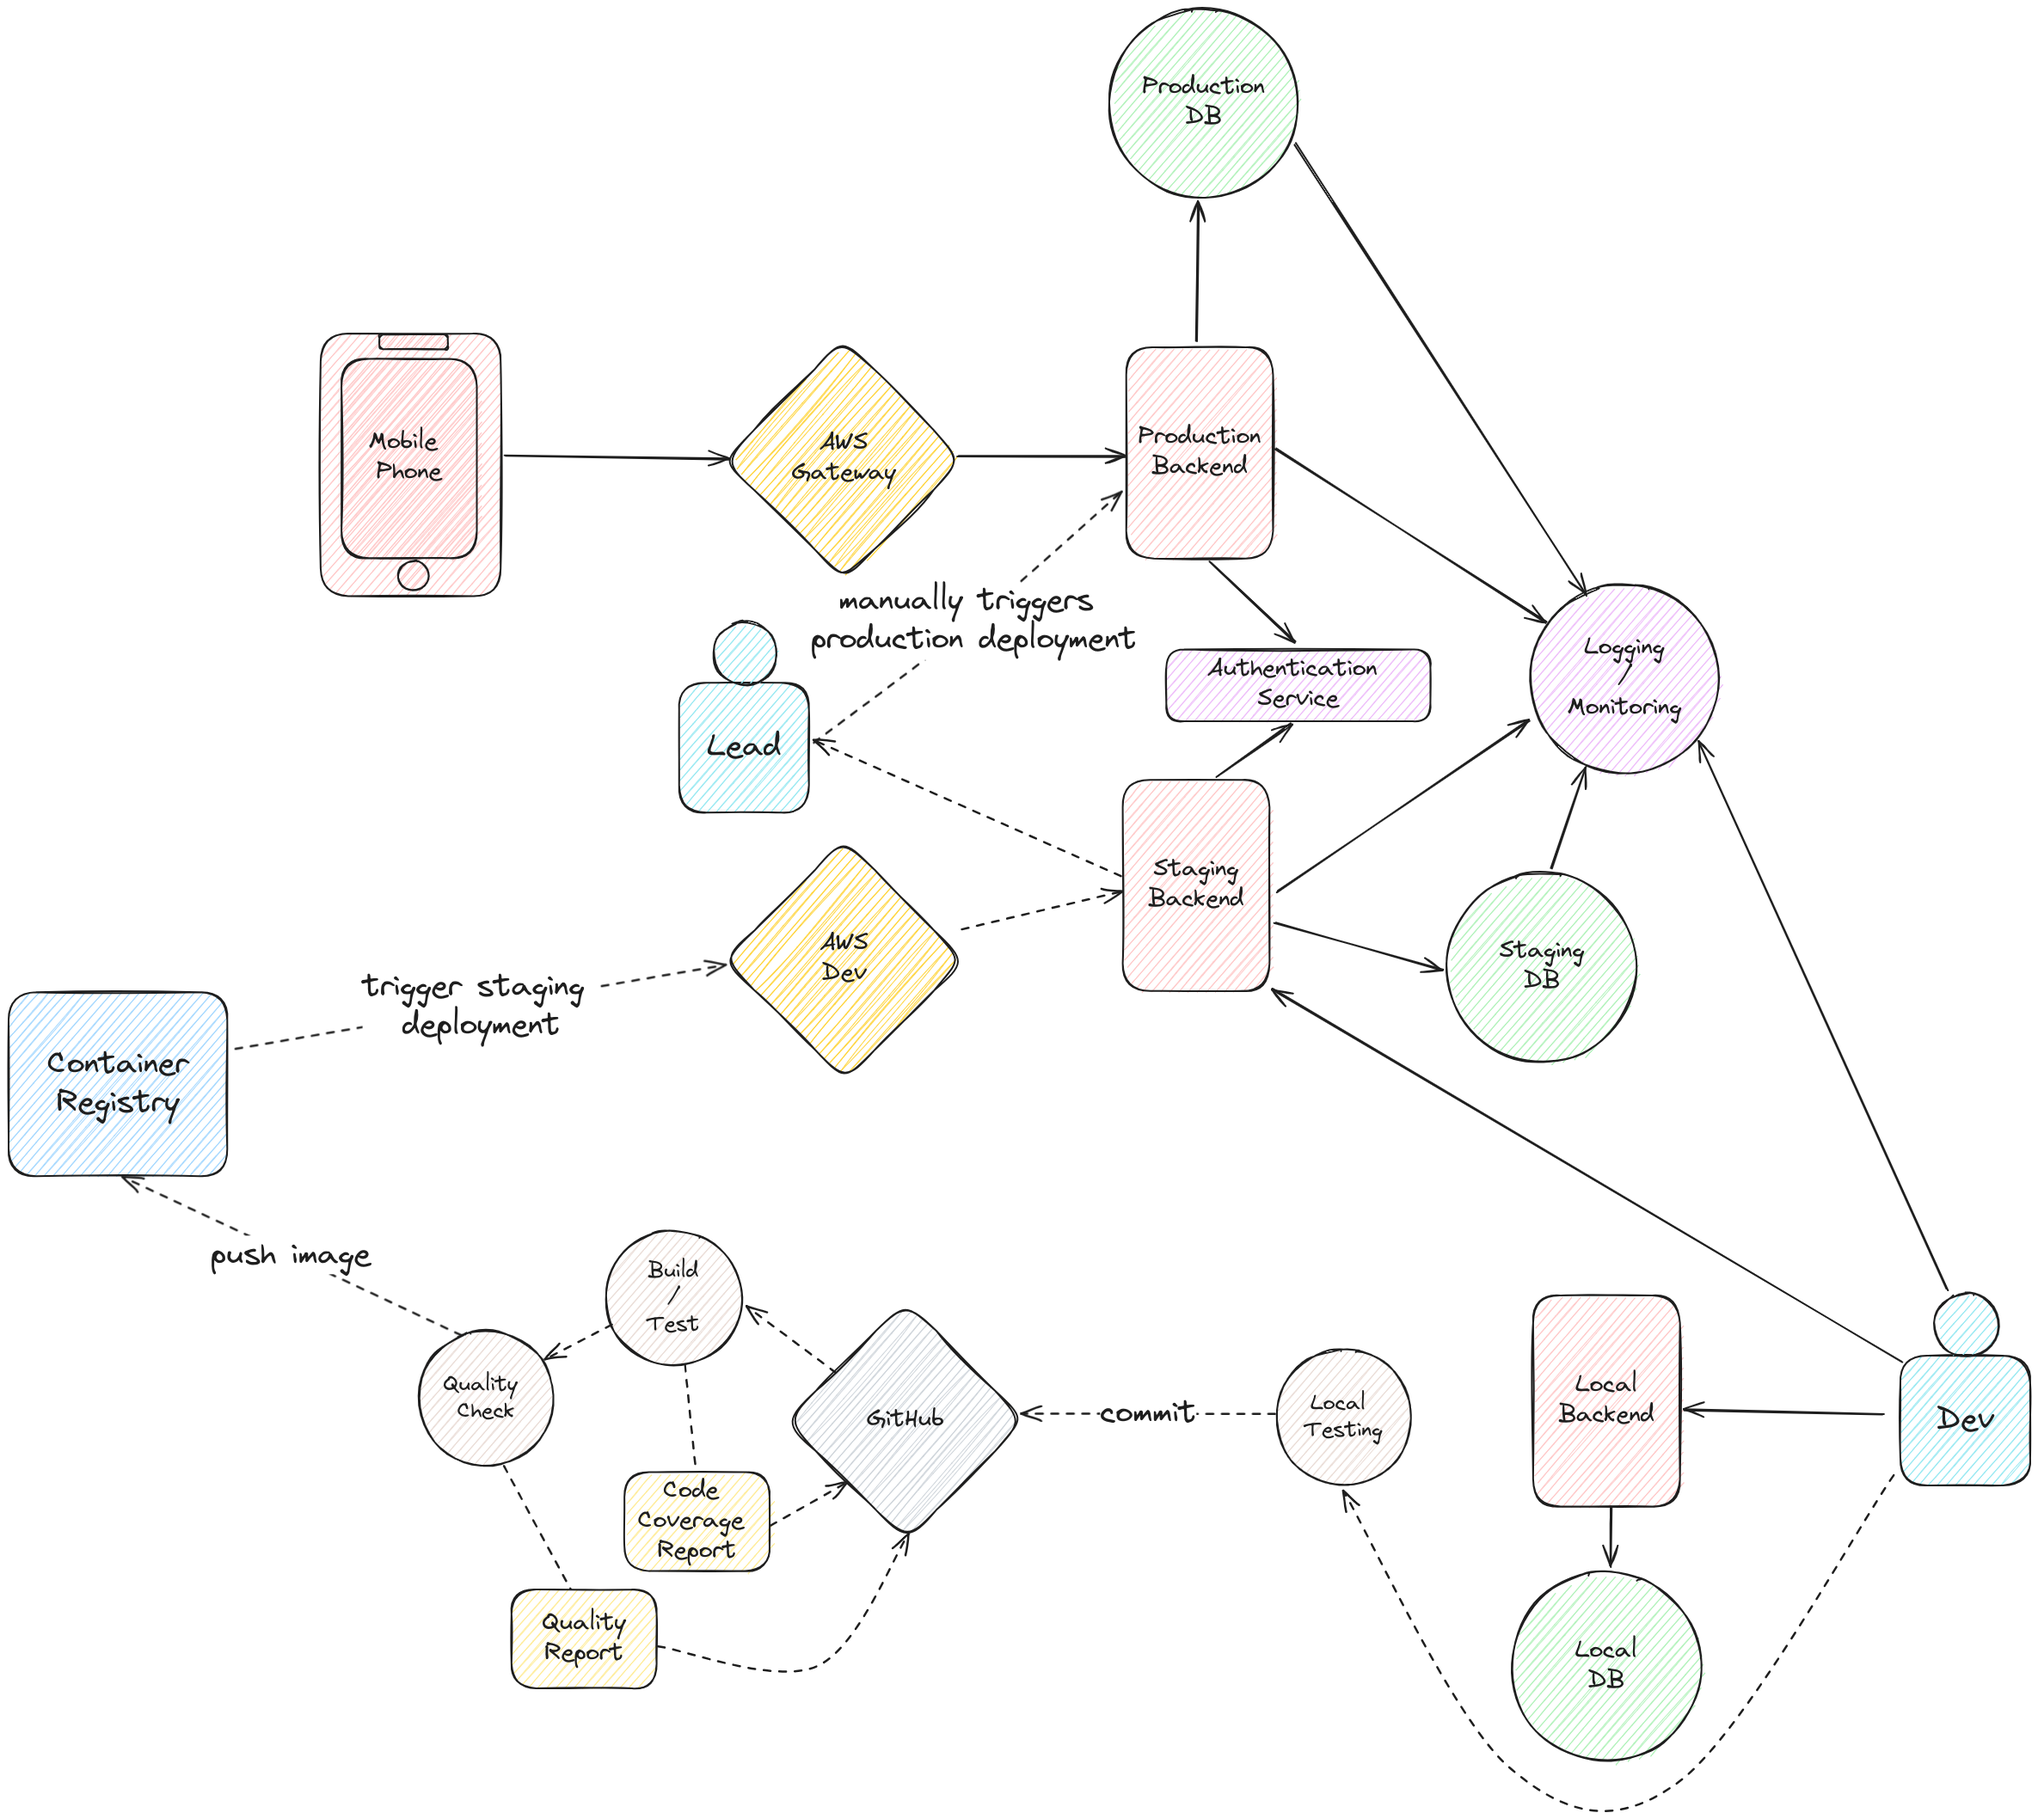
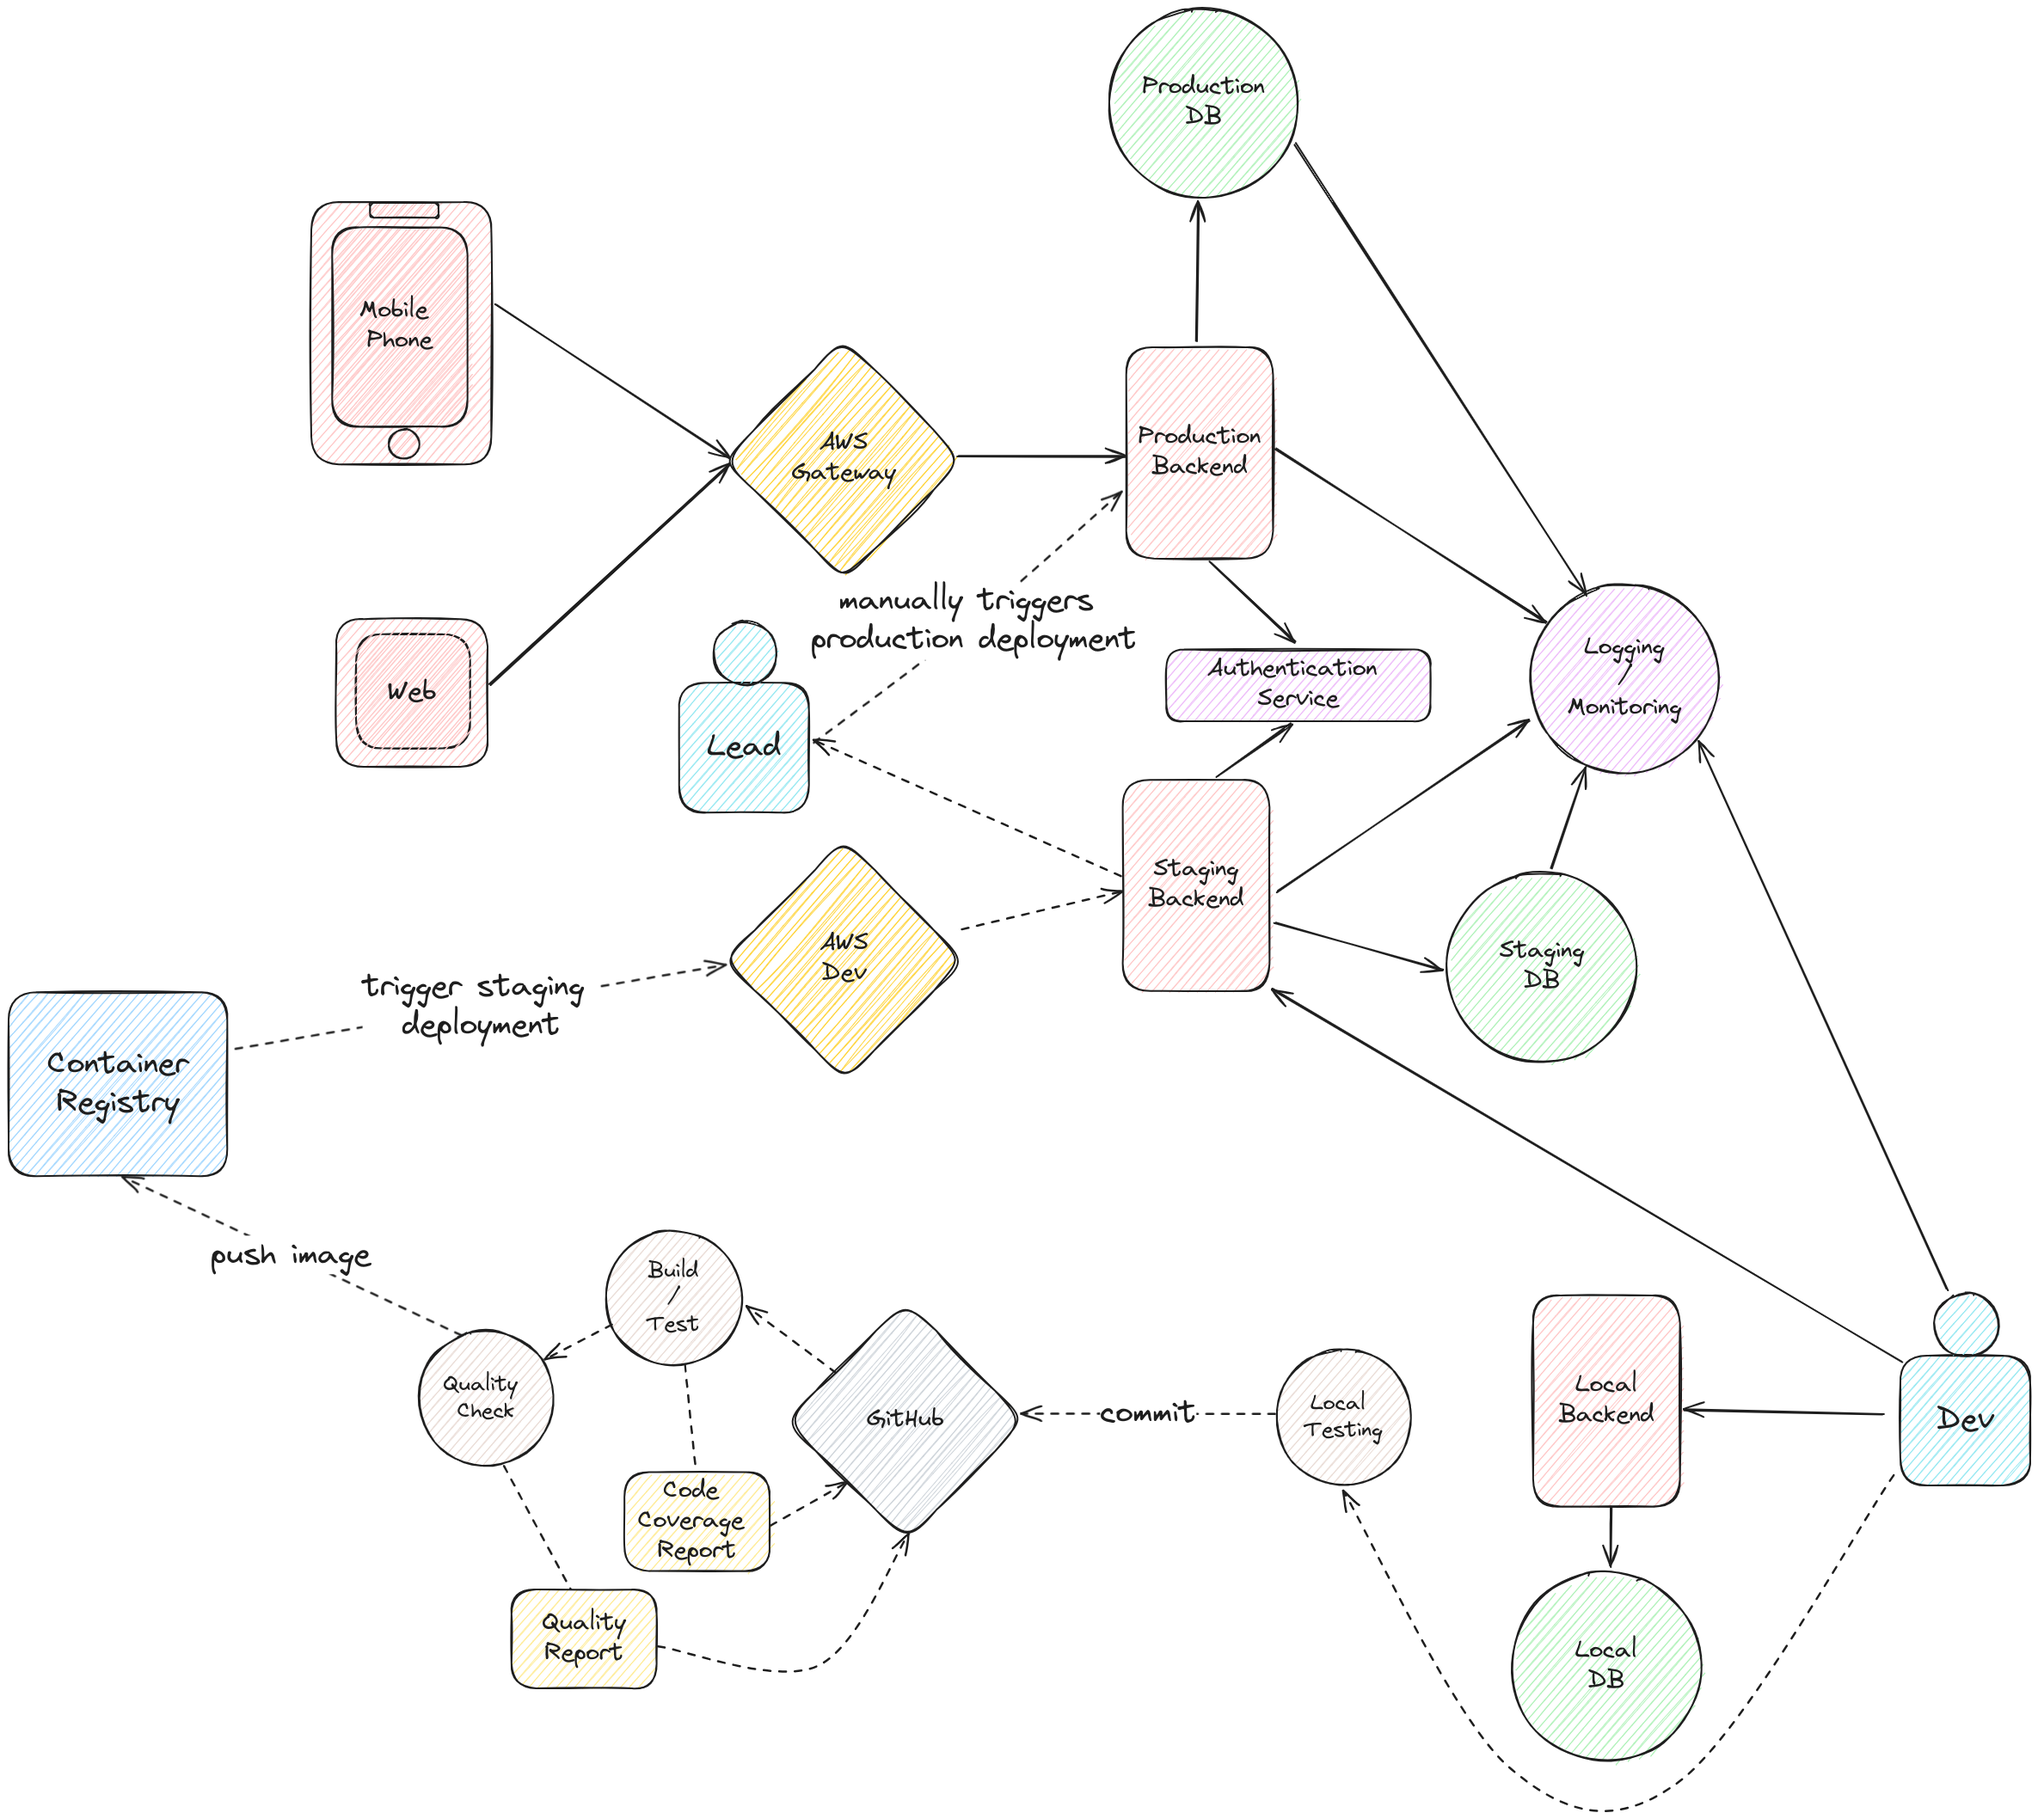
refactor: Project details changed
* doc: Web client added to design

Changed region(s): [[0.1561, 0.0936, 0.2498, 0.4367], [0.3435, 0.2495, 0.3747, 0.2807]]

diff --git a/README.md b/README.md
@@ -1,6 +1,6 @@
-# Address Book API
+# Address Book
 ---
 ## About
-This project aims to provide a hands on solution for contact management backend through an REST API.
+This project aims to provide a hands on cloud native solution for contact management.
 ## System Design And Application Lifecycle
 ![system_design_and_application_lifecycle](docs/img/design1.png)
